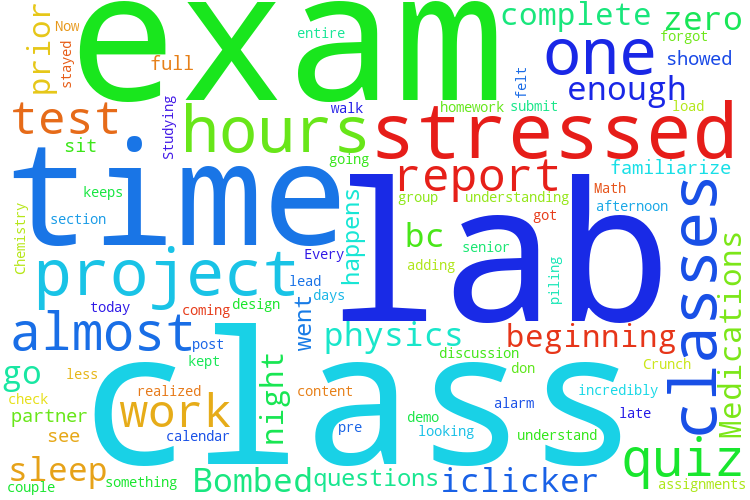
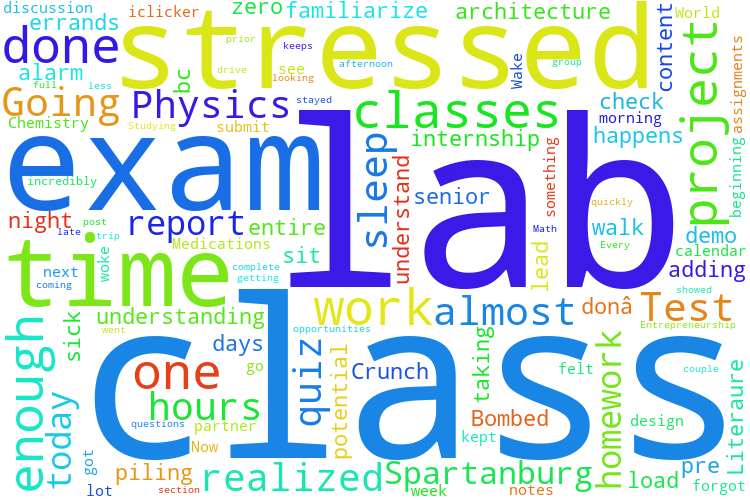
4140

diff --git a/4140/team_project/word_cloud_script.py b/4140/team_project/word_cloud_script.py
@@ -37,7 +37,6 @@ from nltk.collocations import BigramAssocMeasures, BigramCollocationFinder
 from nltk.corpus import stopwords
 from operator import itemgetter
 
-'''
 #nltk.download('punkt')
 
 #mask = np.array(Image.open('./glc_profile.jpeg'))
@@ -68,4 +67,3 @@ wordCloud.generate_from_frequencies(word_dict)
 #wordCloud.to_file("bmw_wc.png")
 #wordCloud.to_file("benz_wc_boring.png")
 wordCloud.to_file("bmw_wc_boring.png")
-'''
